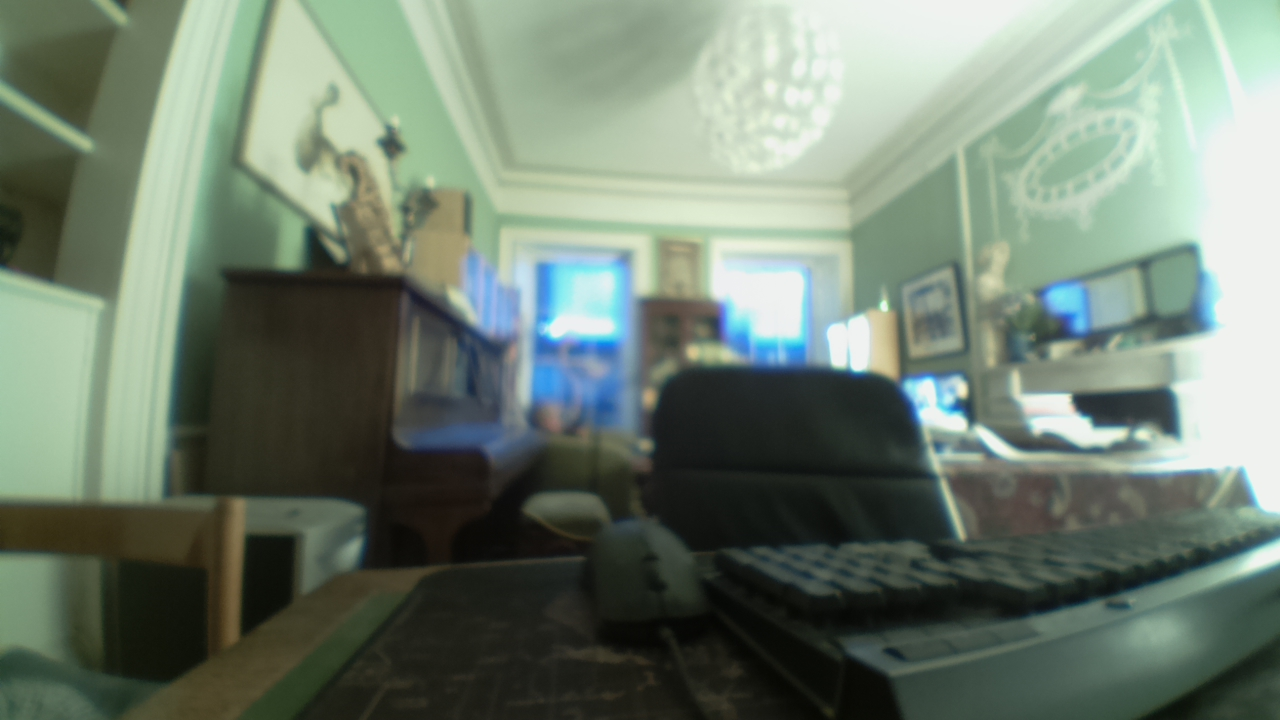
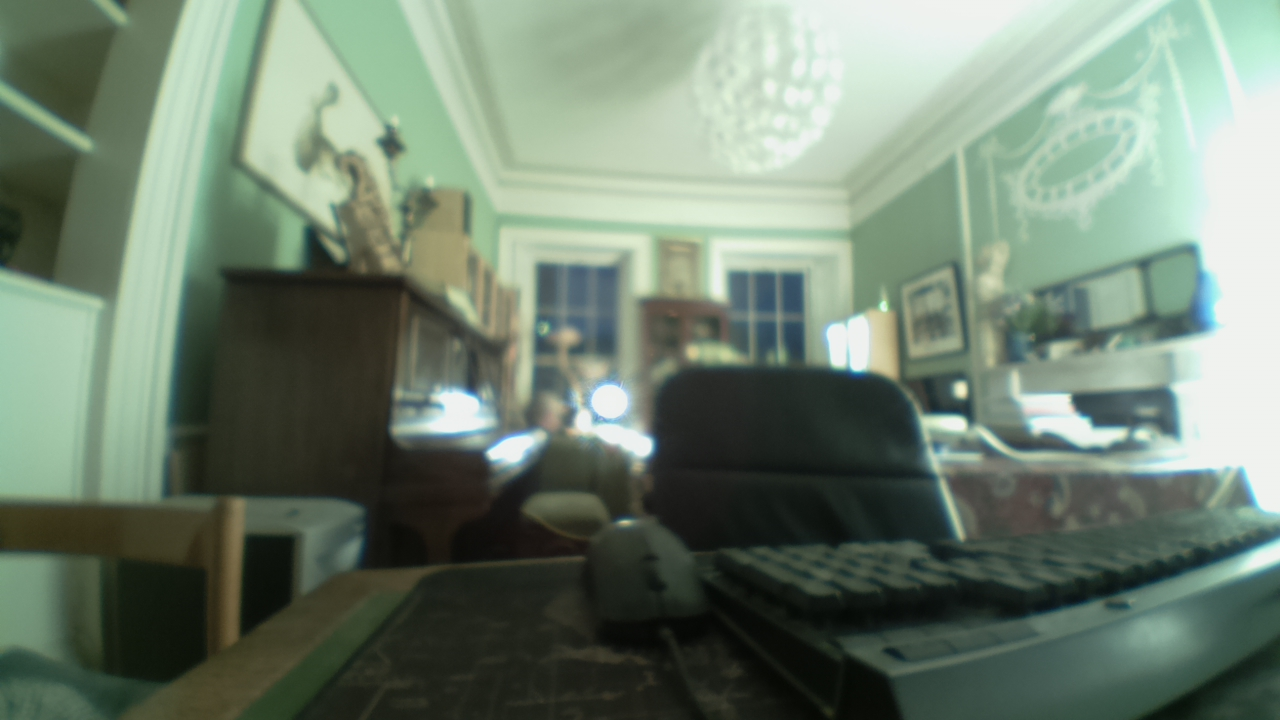
added leds

diff --git a/picture.py b/picture.py
@@ -1,7 +1,12 @@
+from gpiozero import LED
 from picamera import PiCamera
 from time import sleep
 from fractions import Fraction
 
+led1 = LED(23)
+led2 = LED(24)
+led1.on()
+led2.on()
 camera = PiCamera(
     resolution=(1280, 720),
     framerate=Fraction(1, 6),
@@ -14,3 +19,5 @@ camera.start_preview()
 sleep(30)
 camera.capture('/home/pi/picture/image.jpg')
 camera.stop_preview()
+led1.off()
+led2.off()
